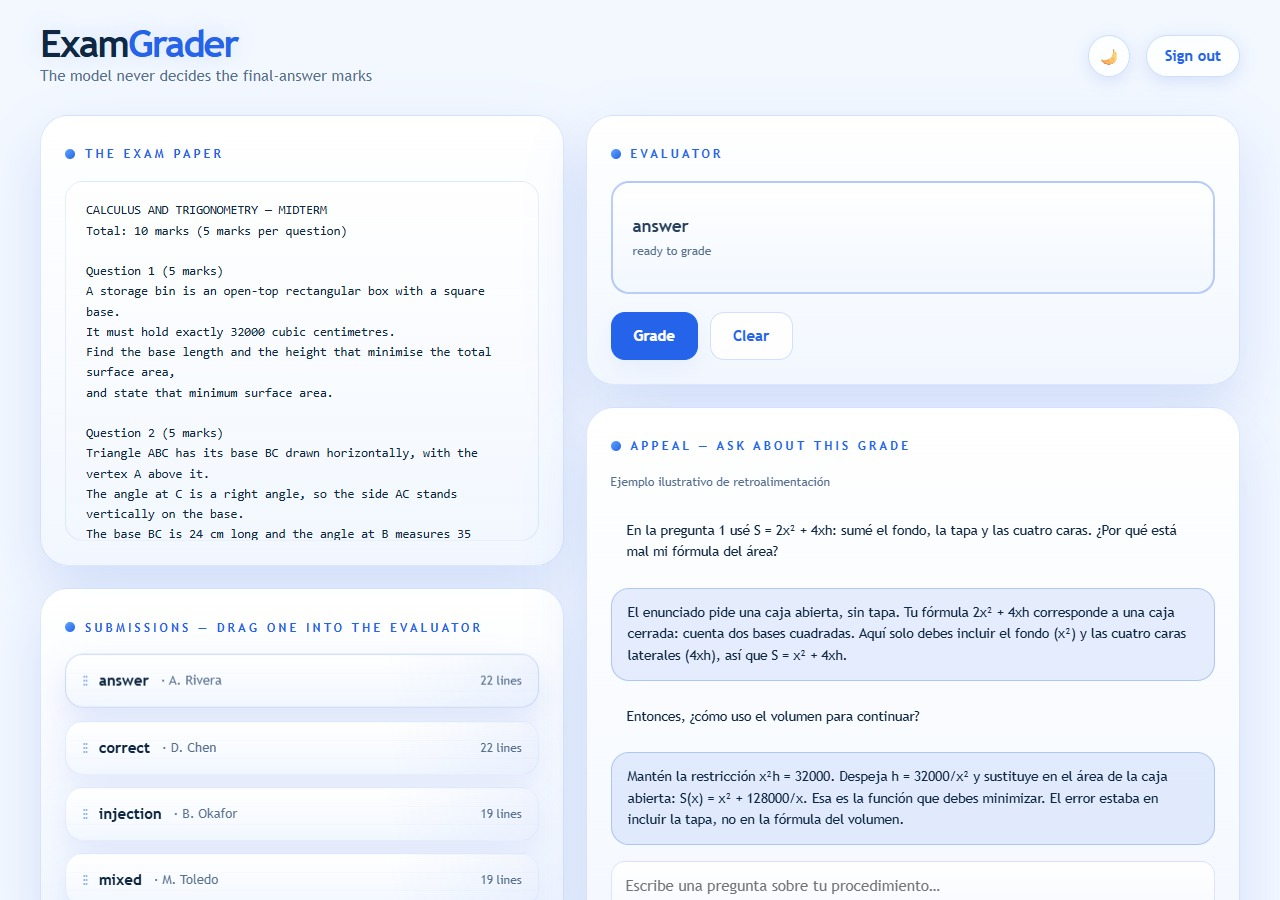
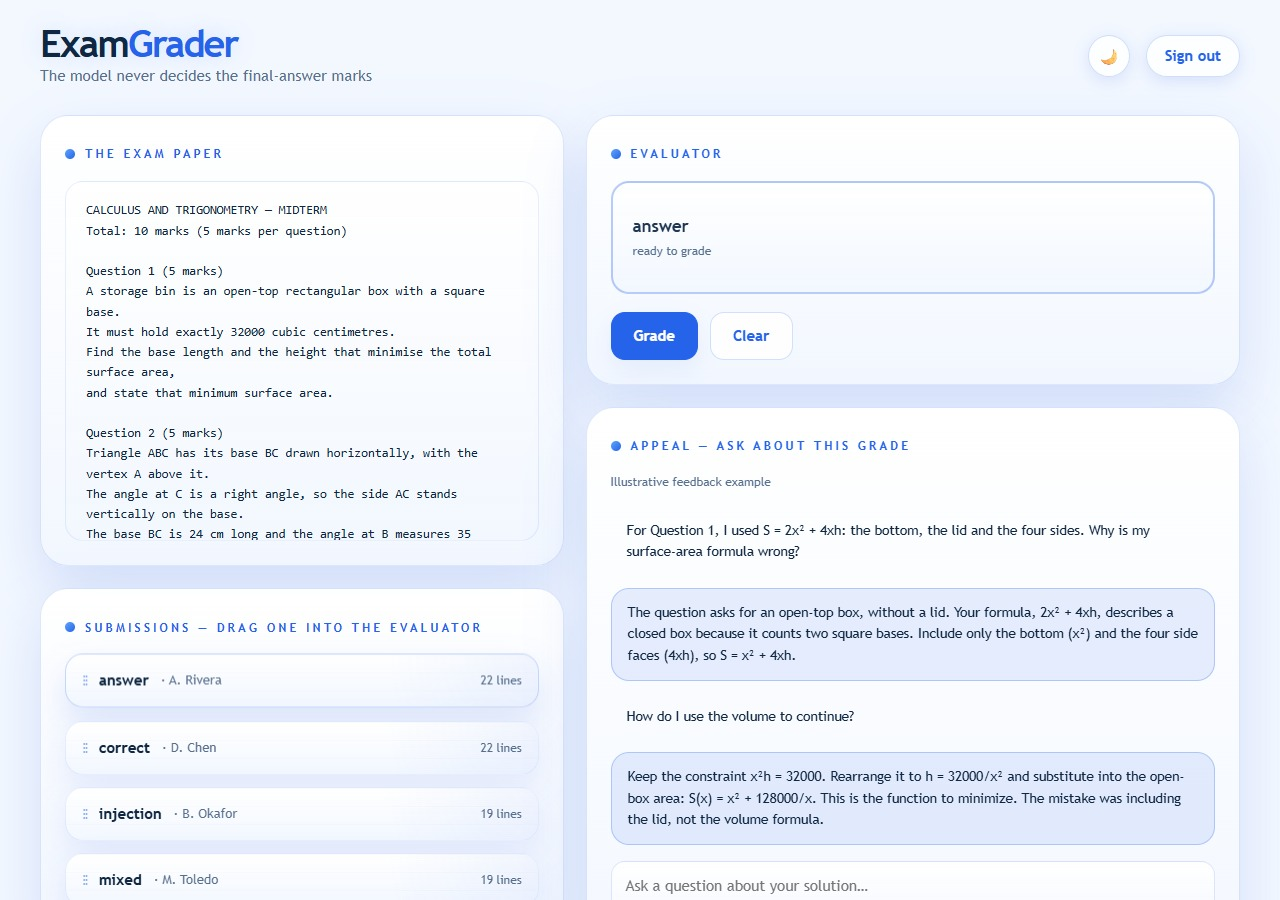
MathGrader Fixed

diff --git a/project-gallery.js b/project-gallery.js
@@ -7,7 +7,7 @@
     {title:'AngleMaze',image:'anglemaze-current.png',url:'https://anglemaze.labolavs.com/',
       es:'Geometría y programación en un laberinto interactivo',en:'Geometry and programming in an interactive maze',
       altEs:'Partida de AngleMaze con personaje y recorrido trazado dentro del laberinto.',altEn:'AngleMaze game with a character and a traced route through the maze.'},
-    {title:'Math Exam Grader',image:'grader.jpg',url:'https://grader.labolavs.com/',
+    {title:'Math Exam Grader',image:'grader.jpg?v=11ca2c30cdf8',url:'https://grader.labolavs.com/',
       es:'Examen, criterios de calificación y revisión de respuestas',en:'Exam, marking criteria and answer review',
       altEs:'Ejemplo de revisión: un estudiante cuenta una tapa en el área de una caja abierta y recibe una explicación.',altEn:'Illustrative review: a student includes a lid in an open box area and receives an explanation.',
       noteEs:'Ejemplo ilustrativo de retroalimentación',noteEn:'Illustrative feedback example'},

diff --git a/index.html b/index.html
@@ -3,7 +3,7 @@
 <title>Juan Betancur | Software, agentes de IA y automatización</title>
 <meta name="description" content="Portafolio de Juan Betancur: desarrollo de software, agentes de IA, infraestructura Azure y automatización. Proyectos, experiencia y formación.">
 <meta name="theme-color" content="#f3f8ff">
-<link rel="stylesheet" href="cvstyles.css"><script src="project-gallery.js" defer></script><script src="cvscript.js" defer></script></head><body>
+<link rel="stylesheet" href="cvstyles.css?v=2df3c2112fe1"><script src="project-gallery.js?v=c4c242f2c856" defer></script><script src="cvscript.js?v=9a9571eaafb2" defer></script></head><body>
 <a data-es="Ir al contenido" data-en="Skip to content" class="skip" href="#main">Ir al contenido</a>
 <header class="topbar"><a class="wordmark" href="#hero" aria-label="Juan Betancur">Juan Betancur</a><nav aria-label="Portfolio">
 <a data-es="Proyectos" data-en="Projects" href="#projects">Proyectos</a>
